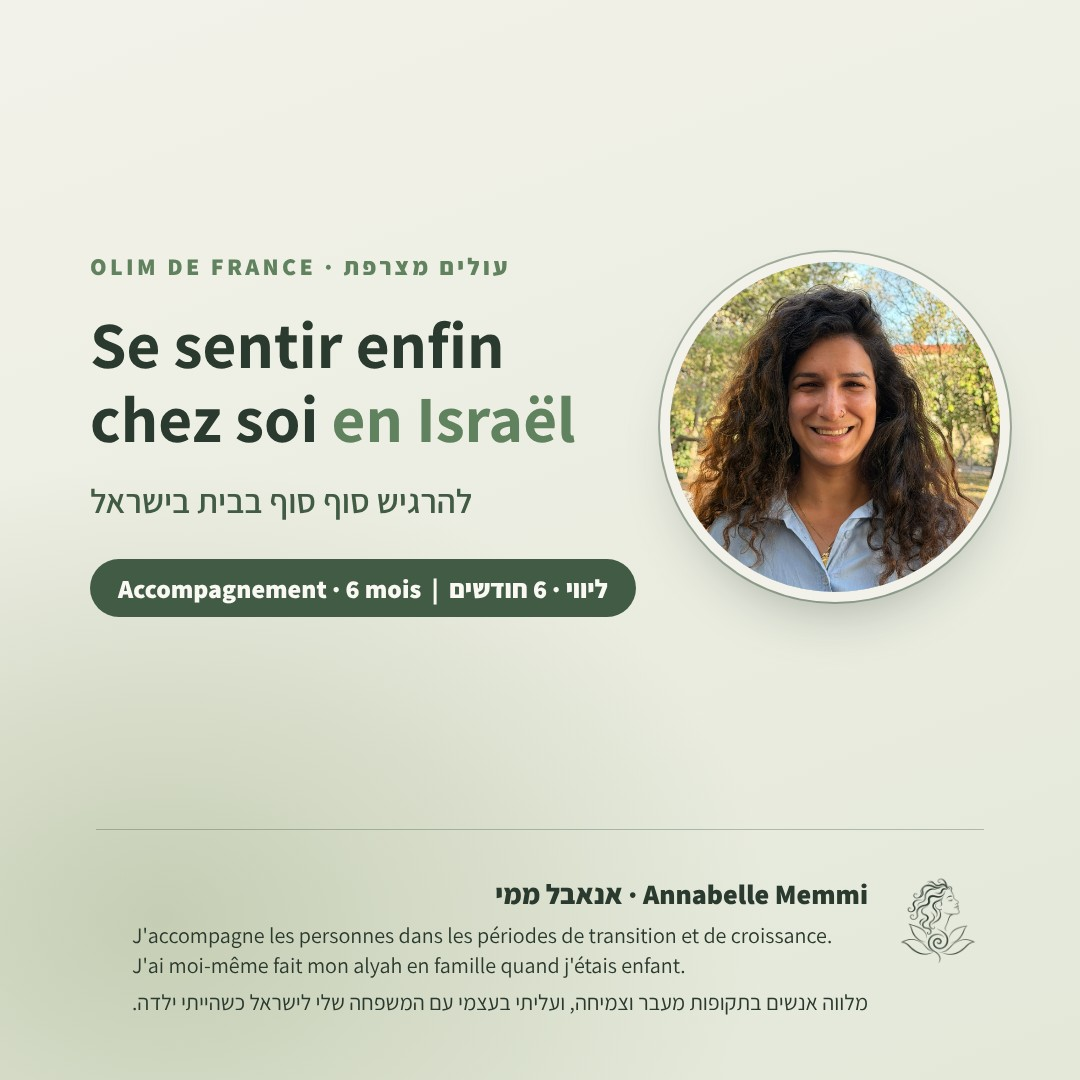
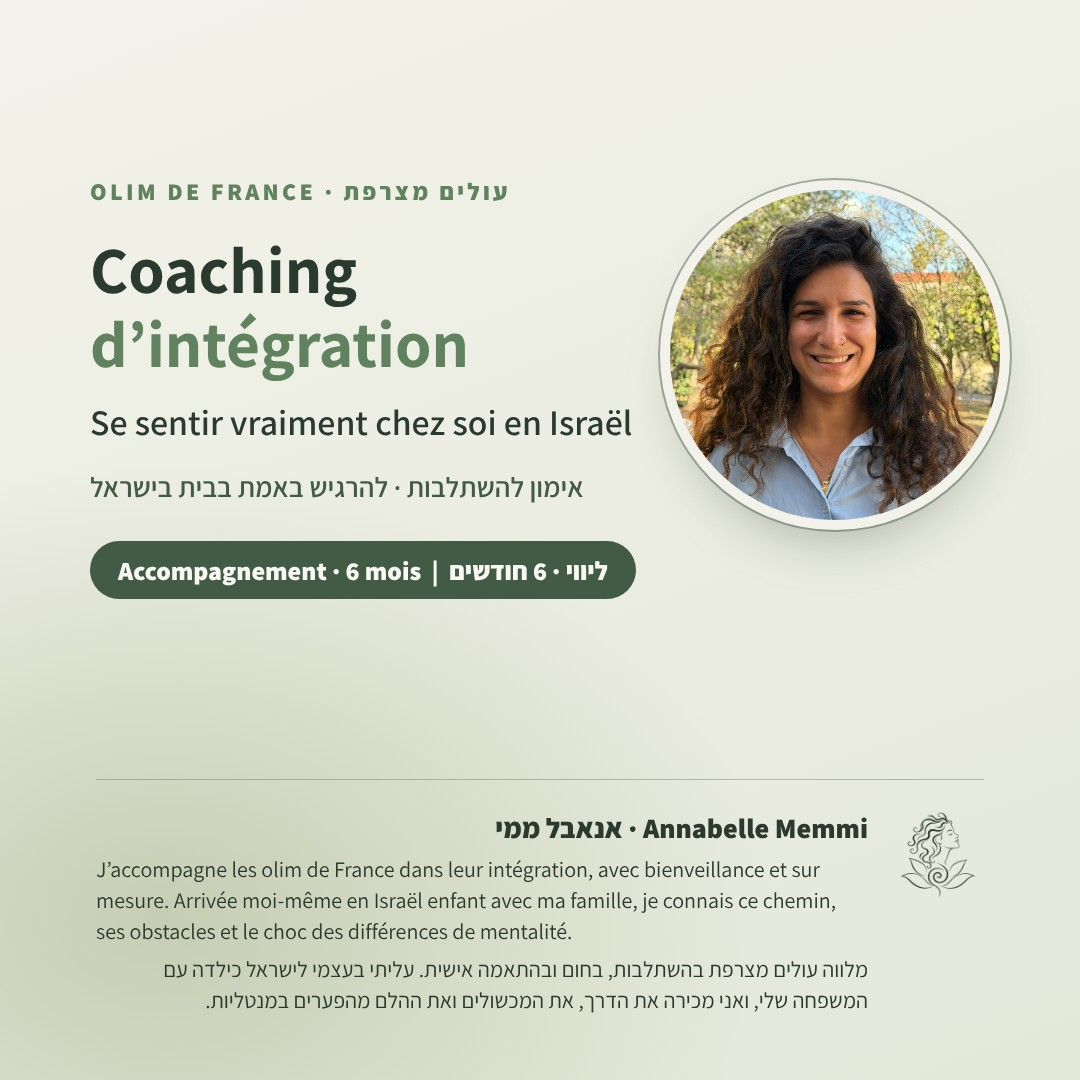
Catalog olim cards: 'Coaching d’intégration' title and corrected French text
Claude-Session: https://claude.ai/code/session_01Ur62TcEo8LSQkeiod8x8a5

diff --git a/assets/catalog/cards.html b/assets/catalog/cards.html
@@ -48,18 +48,20 @@
 
   /* olim: French first, one font (Assistant), calmer sizes */
   .olim2 { padding: 0; justify-content: flex-start; }
-  .olim2 .ol { position: absolute; left: 90px; top: 250px; width: 560px; direction: ltr; text-align: left; }
+  .olim2 .ol { position: absolute; left: 90px; top: 175px; width: 560px; direction: ltr; text-align: left; }
   .olim2 .kicker { font-size: 24px; letter-spacing: .14em; }
   .olim2 .t-fr { margin: 26px 0 0; font-family: Assistant, sans-serif; font-weight: 700; font-size: 66px; line-height: 1.12; color: #2B3A2E; }
   .olim2 .t-fr em { font-style: normal; color: #61825E; }
   .olim2 .t-he { margin: 22px 0 0; direction: rtl; text-align: left; font-size: 34px; font-weight: 600; color: #415B44; }
   .olim2 .pill { margin-top: 36px; font-size: 26px; padding: 12px 28px; }
-  .olim2 .photo { left: auto; right: 80px; top: 262px; width: 330px; height: 330px; }
-  .olim2 .rule { bottom: 250px; }
+  .olim2 .photo { left: auto; right: 80px; top: 190px; width: 330px; height: 330px; }
+  .olim2 .rule { bottom: 300px; }
   .foot--olim { align-items: flex-start; bottom: 56px; }
   .foot--olim b { display: block; font-size: 28px; font-weight: 800; margin-bottom: 8px; }
-  .foot--olim p { margin: 0 0 6px; font-size: 22px; line-height: 1.4; }
+  .foot--olim p { margin: 0 0 8px; font-size: 22px; line-height: 1.4; }
   .foot--olim p[dir=ltr] { text-align: left; }
+  .olim2 .t-fr2 { margin: 18px 0 0; font-size: 36px; font-weight: 600; color: #2B3A2E; line-height: 1.3; }
+  .olim2 .t-he { font-size: 28px; }
 </style>
 </head>
 <body>
@@ -77,32 +79,34 @@
 <div class="card olim light olim2" id="c2">
   <div class="ol">
     <p class="kicker">OLIM DE FRANCE · עולים מצרפת</p>
-    <h2 class="t-fr">Se sentir enfin<br>chez soi <em>en Israël</em></h2>
-    <p class="t-he">להרגיש סוף סוף בבית בישראל</p>
+    <h2 class="t-fr">Coaching<br><em>d’intégration</em></h2>
+    <p class="t-fr2">Se sentir vraiment chez soi en Israël</p>
+    <p class="t-he">אימון להשתלבות · להרגיש באמת בבית בישראל</p>
     <span class="pill">Accompagnement · 3 mois &nbsp;|&nbsp; ליווי · 3 חודשים</span>
   </div>
   <img class="photo" src="annabelle-blue.jpg" alt="">
   <div class="rule"></div>
   <div class="foot foot--olim"><img src="../img/logo-white.png" alt=""><div>
     <b>Annabelle Memmi · אנאבל ממי</b>
-    <p dir="ltr">J'accompagne les personnes dans les périodes de transition et de croissance.<br>J'ai moi-même fait mon alyah en famille quand j'étais enfant.</p>
-    <p>מלווה אנשים בתקופות מעבר וצמיחה, ועליתי בעצמי עם המשפחה שלי לישראל כשהייתי ילדה.</p>
+    <p dir="ltr">J’accompagne les olim de France dans leur intégration, avec bienveillance et sur mesure. Arrivée moi-même en Israël enfant avec ma famille, je connais ce chemin, ses obstacles et le choc des différences de mentalité.</p>
+    <p>מלווה עולים מצרפת בהשתלבות, בחום ובהתאמה אישית. עליתי בעצמי לישראל כילדה עם המשפחה שלי, ואני מכירה את הדרך, את המכשולים ואת ההלם מהפערים במנטליות.</p>
   </div></div>
 </div>
 
 <div class="card olim light olim2" id="c3">
   <div class="ol">
     <p class="kicker">OLIM DE FRANCE · עולים מצרפת</p>
-    <h2 class="t-fr">Se sentir enfin<br>chez soi <em>en Israël</em></h2>
-    <p class="t-he">להרגיש סוף סוף בבית בישראל</p>
+    <h2 class="t-fr">Coaching<br><em>d’intégration</em></h2>
+    <p class="t-fr2">Se sentir vraiment chez soi en Israël</p>
+    <p class="t-he">אימון להשתלבות · להרגיש באמת בבית בישראל</p>
     <span class="pill">Accompagnement · 6 mois &nbsp;|&nbsp; ליווי · 6 חודשים</span>
   </div>
   <img class="photo" src="annabelle-blue.jpg" alt="">
   <div class="rule"></div>
   <div class="foot foot--olim"><img src="../img/logo-white.png" alt=""><div>
     <b>Annabelle Memmi · אנאבל ממי</b>
-    <p dir="ltr">J'accompagne les personnes dans les périodes de transition et de croissance.<br>J'ai moi-même fait mon alyah en famille quand j'étais enfant.</p>
-    <p>מלווה אנשים בתקופות מעבר וצמיחה, ועליתי בעצמי עם המשפחה שלי לישראל כשהייתי ילדה.</p>
+    <p dir="ltr">J’accompagne les olim de France dans leur intégration, avec bienveillance et sur mesure. Arrivée moi-même en Israël enfant avec ma famille, je connais ce chemin, ses obstacles et le choc des différences de mentalité.</p>
+    <p>מלווה עולים מצרפת בהשתלבות, בחום ובהתאמה אישית. עליתי בעצמי לישראל כילדה עם המשפחה שלי, ואני מכירה את הדרך, את המכשולים ואת ההלם מהפערים במנטליות.</p>
   </div></div>
 </div>
 
